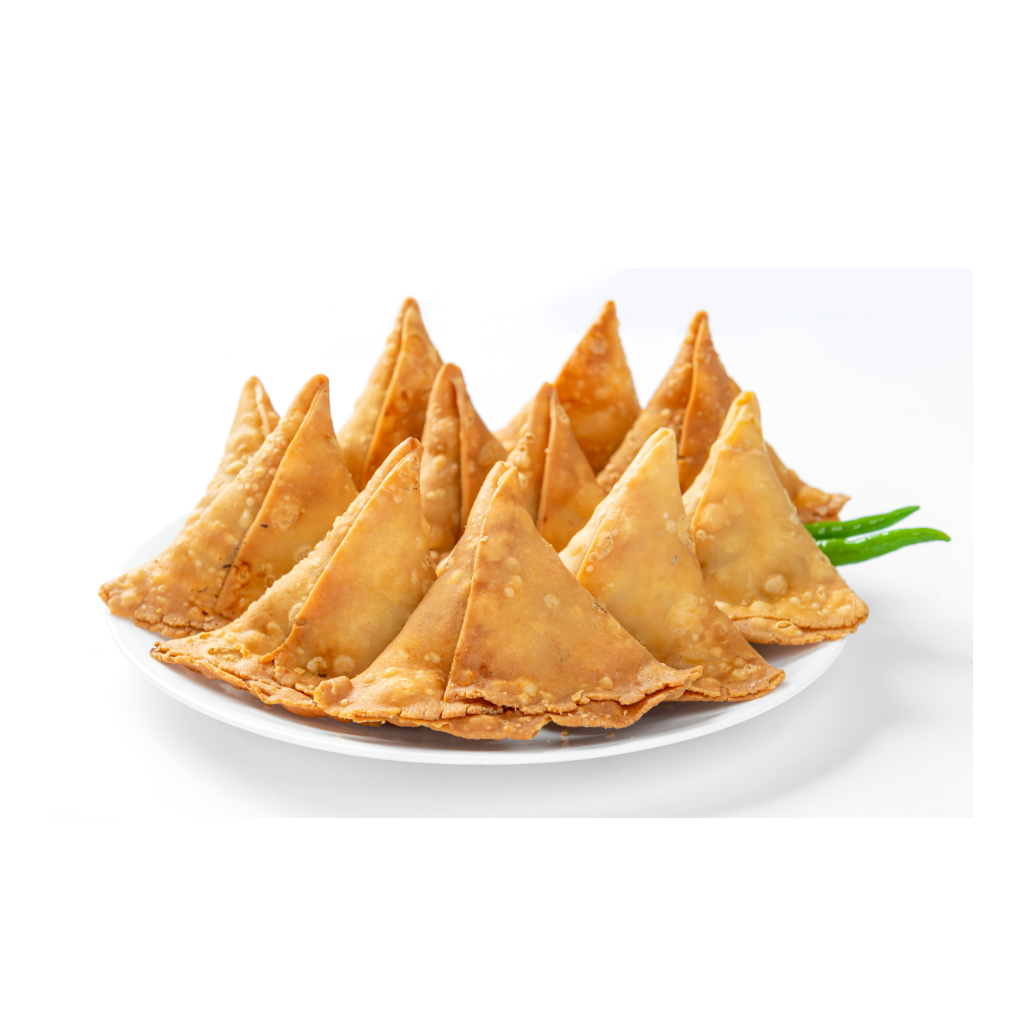
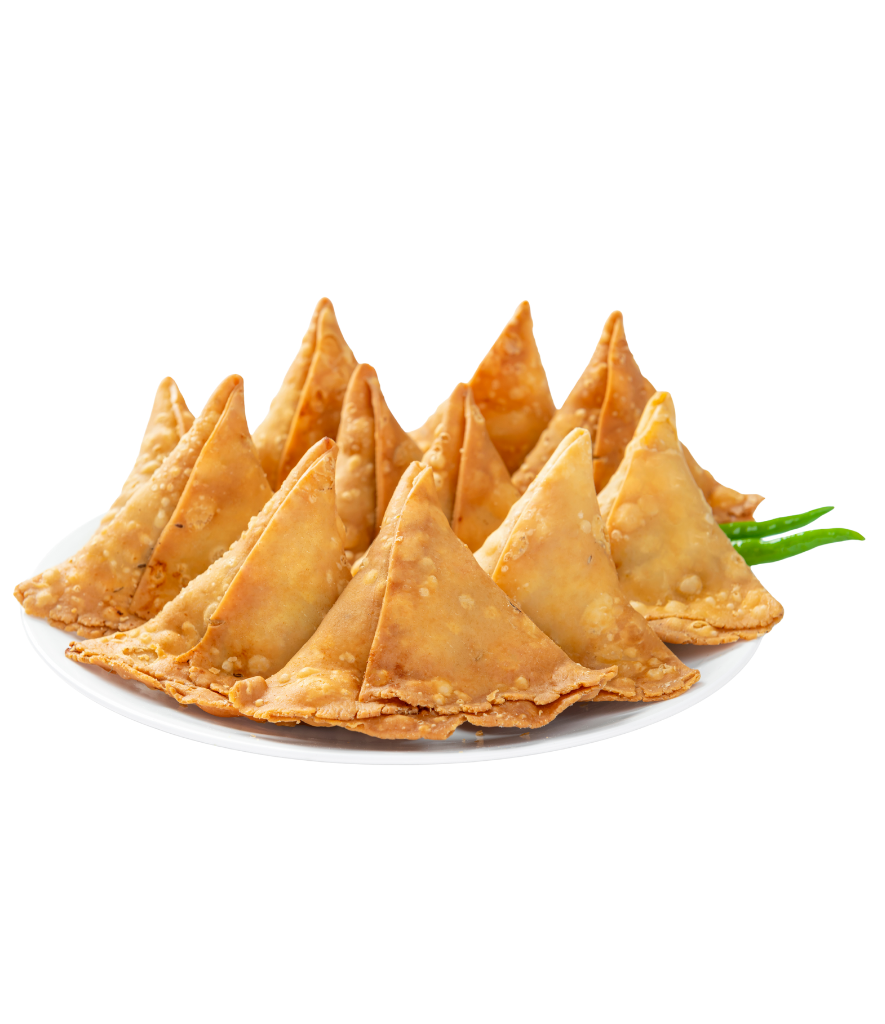
feat: Adiciona o resto das receitas

Changed region(s): [[0.0, 0.2812, 0.9763, 0.8125]]

diff --git a/pages/receitas/Samosa.html b/pages/receitas/Samosa.html
@@ -33,55 +33,71 @@
             <div class="informacaoBanner">
                 <div>
                     <span class="categoriaReceita">Receita Indiana</span>
-                    <h1>Dim sum (点心)</h1>
-                    <p>Pequenas porções de comida (como bolinhos e pastéis cozidos no vapor) servidas em cestos de bambu.</p>
+                    <h1>Samosa (समोसा)</h1>
+                    <p>Pastel triangular frito, recheado com batata, ervilha e especiarias.</p>
                 </div>
-                <img src="../../assets/image/comida/6.png" alt="imagem de comida">
+                <img src="../../assets/image/comida/10.png" alt="">
             </div>
         </section>
         <section class="ingredientesReceita">
             <div class="informacaoIngredientes">
-                <h2>Ingredientes</h2>
+                <h2>Ingredientes (para cerca de 10 unidades)</h2>
+                <h3>Massa</h3>
+                <ul>
+                    <li>2 xícaras (chá) de farinha de trigo</li>
+                    <li>4 colheres (sopa) de óleo ou manteiga derretida</li>
+                    <li>½ colher (chá) de sal</li>
+                    <li>Cerca de ½ xícara de água (ou até dar ponto)</li>
+                </ul>
                 <h3>Recheio</h3>
                 <ul>
-                    <li>250g de camarões crus limpos e picados grosseiramente</li>
-                    <li>1 colher de sopa de óleo de gergelim</li>
-                    <li>1 colher de chá de gengibre ralado</li>
-                    <li>1 colher de chá de molho de soja claro</li>
-                    <li>1 colher de chá de açúcar</li>
-                    <li>1 pitada de sal</li>
-                    <li>1 colher de chá de amido de milho</li>
-                    <li>1 colher de sopa de cebolinha bem picada</li>
+                    <li>3 batatas médias cozidas e amassadas</li>
+                    <li>½ xícara de ervilhas cozidas</li>
+                    <li>1 cebola pequena picada</li>
+                    <li>2 dentes de alho picados</li>
+                    <li>1 colher (chá) de gengibre ralado</li>
+                    <li>1 colher (chá) de curry em pó</li>
+                    <li>½ colher (chá) de cominho</li>
+                    <li>½ colher (chá) de cúrcuma (açafrão-da-terra)</li>
+                    <li>1 pitada de pimenta (opcional)</li>
+                    <li>Sal a gosto</li>
+                    <li>Coentro ou salsinha picada</li>
+                    <li>2 colheres (sopa) de óleo</li>
                 </ul>
-                <h3>Massa (Har Gow original)</h3>
+                <h3>Para fritar</h3>
                 <ul>
-                    <li>1 xícara de farinha de trigo de arroz (não glutinoso)</li>
-                    <li>1/4 xícara de fécula de batata ou amido de trigo</li>
-                    <li>3/4 xícara de água fervente</li>
-                    <li>1 colher de sopa de óleo vegetal</li>
-                </ul>
+                    <li>Óleo suficiente para imersão</li>
+                </ul>    
             </div>
         </section>
         <section class="modoDePreparo">
             <h2>Modo de Preparo</h2>
-            <h3>Recheio</h3>
+            <h3>Prepare a massa</h3>
             <ol>
-                <li>Misture todos os ingredientes do recheio em uma tigela.</li>
-                <li>Cubra e leve à geladeira por 20 minutos enquanto prepara a massa.</li>
+                <li>Em uma tigela, misture a farinha, o sal e o óleo.</li>
+                <li>Vá adicionando água aos poucos até formar uma massa firme e lisa.</li>
+                <li>Cubra com um pano e deixe descansar por 30 minutos.</li>
             </ol>
-            <h3>Massa</h3>
+            <h3>Prepare o recheio</h3>
             <ol>
-                <li>Em uma tigela, misture a farinha de arroz e a fécula.</li>
-                <li>Adicione a água fervente aos poucos, mexendo com uma colher de pau até formar uma massa.</li>
-                <li>Acrescente o óleo e sove levemente até a massa ficar lisa. Cubra com pano úmido para não ressecar.</li>
-                <li>Faça bolinhas e abra em discos finos (cerca de 8cm de diâmetro).</li>
+                <li>Aqueça o óleo em uma frigideira.</li>
+                <li>Refogue a cebola, o alho e o gengibre até dourar.</li>
+                <li>Adicione o curry, cúrcuma e cominho, mexendo bem.</li>
+                <li>Junte as batatas amassadas, as ervilhas, o sal e o coentro.</li>
+                <li>Misture até ficar bem incorporado e reserve para esfriar.</li>
             </ol>
-            <h3>Montagem</h3>
+            <h3>Monte as samosas</h3>
             <ol>
-                <li>Coloque uma colher de recheio no centro de cada disco.</li>
-                <li>Feche a massa fazendo dobras (tipo meia-lua ou com pregas como gyoza).</li>
-                <li>Coloque em uma cesta de bambu (ou panela a vapor com papel vegetal perfurado).</li>
-                <li>Cozinhe no vapor por cerca de 7–10 minutos, até a massa ficar translúcida.</li>
+                <li>Divida a massa em bolinhas e abra em círculos finos (como discos de pastel).</li>
+                <li>Corte cada círculo ao meio (para formar dois semicírculos).</li>
+                <li>Pegue um semicírculo, dobre em formato de cone e feche a borda com um pouquinho de água.</li>
+                <li>Recheie o cone com a mistura de batata e ervilha.</li>
+                <li>Feche a parte de cima pressionando bem as bordas com os dedos.</li>
+            </ol>
+            <h3>Frite</h3>
+            <ol>
+                <li>Aqueça o óleo em fogo médio e frite as samosas até ficarem douradas e crocantes.</li>
+                <li>Escorra em papel toalha.</li>
             </ol>
         </section>
         <section class="feedbackReceita">

diff --git a/pages/receitas/Curry.html b/pages/receitas/Curry.html
@@ -33,55 +33,58 @@
             <div class="informacaoBanner">
                 <div>
                     <span class="categoriaReceita">Receita Indiana</span>
-                    <h1>Dim sum (点心)</h1>
-                    <p>Pequenas porções de comida (como bolinhos e pastéis cozidos no vapor) servidas em cestos de bambu.</p>
+                    <h1>Curry (करी)</h1>
+                    <p>Prato com molhos condimentados (à base de especiarias e leite de coco ou iogurte) servido com arroz ou pão naan.</p>
                 </div>
-                <img src="../../assets/image/comida/6.png" alt="imagem de comida">
+                <img src="../../assets/image/comida/9.png" alt="">
             </div>
         </section>
         <section class="ingredientesReceita">
             <div class="informacaoIngredientes">
-                <h2>Ingredientes</h2>
-                <h3>Recheio</h3>
+                <h2>Ingredientes (serve 4 pessoas)</h2>
+                <h3>Para o frango</h3>
                 <ul>
-                    <li>250g de camarões crus limpos e picados grosseiramente</li>
-                    <li>1 colher de sopa de óleo de gergelim</li>
-                    <li>1 colher de chá de gengibre ralado</li>
-                    <li>1 colher de chá de molho de soja claro</li>
-                    <li>1 colher de chá de açúcar</li>
-                    <li>1 pitada de sal</li>
-                    <li>1 colher de chá de amido de milho</li>
-                    <li>1 colher de sopa de cebolinha bem picada</li>
+                    <li>500 g de peito de frango em cubos</li>
+                    <li>2 colheres (sopa) de óleo ou manteiga</li>
+                    <li>Sal e pimenta a gosto</li>
                 </ul>
-                <h3>Massa (Har Gow original)</h3>
+                <h3>Molho curry</h3>
                 <ul>
-                    <li>1 xícara de farinha de trigo de arroz (não glutinoso)</li>
-                    <li>1/4 xícara de fécula de batata ou amido de trigo</li>
-                    <li>3/4 xícara de água fervente</li>
-                    <li>1 colher de sopa de óleo vegetal</li>
-                </ul>
+                    <li>1 cebola média picada</li>
+                    <li>2 dentes de alho picados</li>
+                    <li>1 pedaço pequeno de gengibre ralado (1 colher de chá)</li>
+                    <li>2 tomates maduros picados (ou ½ lata de tomate pelado)</li>
+                    <li>200 ml de leite de coco (ou creme de leite, se preferir mais suave)</li>
+                    <li>1 colher (sopa) de curry em pó</li>
+                    <li>1 colher (chá) de cúrcuma (açafrão-da-terra)</li>
+                    <li>1 colher (chá) de cominho em pó</li>
+                    <li>1 colher (chá) de páprica doce ou picante</li>
+                    <li>Coentro fresco ou salsinha para finalizar</li>
+                </ul>     
             </div>
         </section>
         <section class="modoDePreparo">
             <h2>Modo de Preparo</h2>
-            <h3>Recheio</h3>
+            <h3>Tempere e doure o frango</h3>
             <ol>
-                <li>Misture todos os ingredientes do recheio em uma tigela.</li>
-                <li>Cubra e leve à geladeira por 20 minutos enquanto prepara a massa.</li>
+                <li>Tempere com sal e pimenta.</li>
+                <li>Em uma panela grande, aqueça o óleo e doure os cubos de frango. Reserve.</li>
             </ol>
-            <h3>Massa</h3>
+            <h3>Prepare o molho</h3>
             <ol>
-                <li>Em uma tigela, misture a farinha de arroz e a fécula.</li>
-                <li>Adicione a água fervente aos poucos, mexendo com uma colher de pau até formar uma massa.</li>
-                <li>Acrescente o óleo e sove levemente até a massa ficar lisa. Cubra com pano úmido para não ressecar.</li>
-                <li>Faça bolinhas e abra em discos finos (cerca de 8cm de diâmetro).</li>
+                <li>Na mesma panela, refogue a cebola até ficar dourada.</li>
+                <li>Adicione o alho e o gengibre, mexendo por 1 minuto.</li>
+                <li>Acrescente os tomates e cozinhe até desmancharem (uns 5 minutos).</li>
             </ol>
-            <h3>Montagem</h3>
+            <h3>Adicione os temperos</h3>
             <ol>
-                <li>Coloque uma colher de recheio no centro de cada disco.</li>
-                <li>Feche a massa fazendo dobras (tipo meia-lua ou com pregas como gyoza).</li>
-                <li>Coloque em uma cesta de bambu (ou panela a vapor com papel vegetal perfurado).</li>
-                <li>Cozinhe no vapor por cerca de 7–10 minutos, até a massa ficar translúcida.</li>
+                <li>Coloque o curry, cúrcuma, cominho e páprica. Mexa bem para liberar os aromas.</li>
+            </ol>
+            <h3>Finalize</h3>
+            <ol>
+                <li>Volte o frango à panela e adicione o leite de coco.</li>
+                <li>Cozinhe em fogo baixo por uns 10–15 minutos, até o molho engrossar e o frango ficar macio.</li>
+                <li>Corrija o sal e finalize com coentro ou salsinha.</li>
             </ol>
         </section>
         <section class="feedbackReceita">
